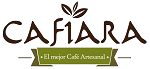
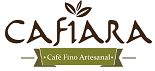
v13
se cambia icono y se agregan 2 imágenes mas al carrusel

Changed region(s): [[0.0, 0.0, 0.9867, 0.9855], [0.6667, 0.7246, 0.6933, 0.7536]]

diff --git a/index.html b/index.html
@@ -51,6 +51,8 @@
                 <img src="car2.png" alt="Imagen 2">
                 <img src="car3.png" alt="Imagen 3">
                 <img src="car4.png" alt="Imagen 4">
+                <img src="car5.png" alt="Imagen 5">
+                <img src="car6.png" alt="Imagen 6">
             </div>
             <div class="carousel-buttons">
                 <button id="prev">&laquo;</button>
